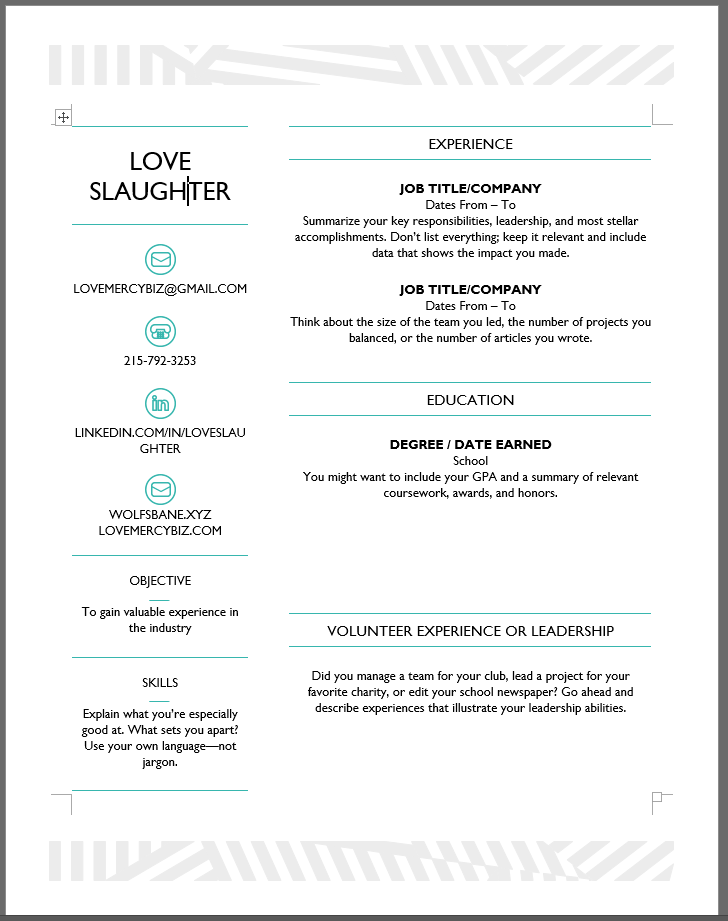
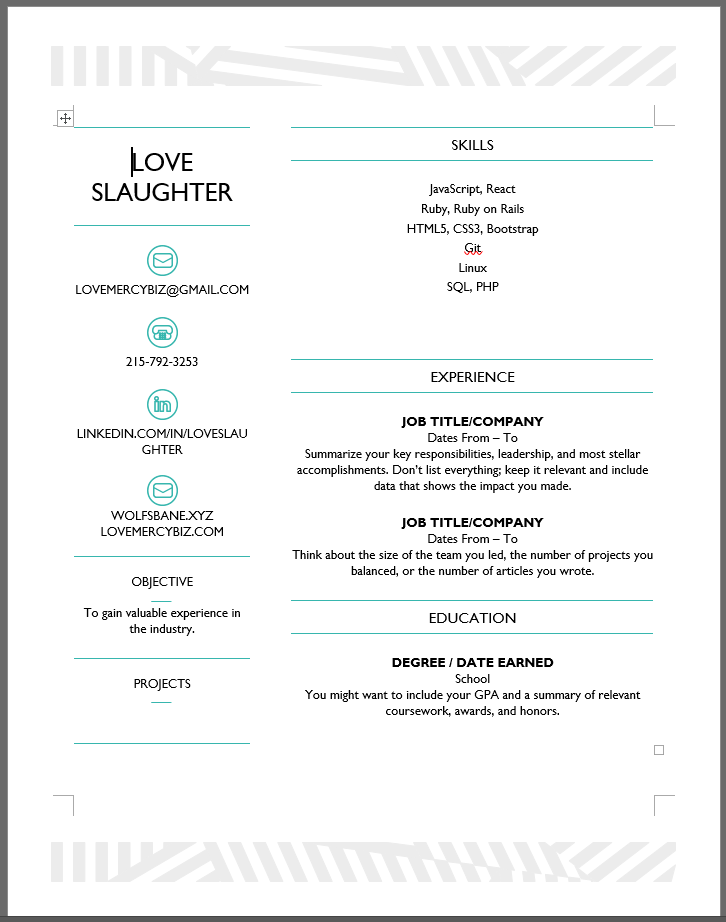
Finished first half of resume

diff --git a/index.html b/index.html
@@ -6,6 +6,7 @@
         <meta name="viewport" content="width=device-width, initial-scale=1,shrink-to-fit=no">
         <!-- <link href="https://fonts.googleapis.com/css?family=Source+Code+Pro:400,500,700" rel="stylesheet"> -->
         <link rel="stylesheet" href="css/bootstrap.min.css">
+        <link rel="stylesheet" href="https://use.fontawesome.com/releases/v5.3.1/css/all.css" integrity="sha384-mzrmE5qonljUremFsqc01SB46JvROS7bZs3IO2EmfFsd15uHvIt+Y8vEf7N7fWAU" crossorigin="anonymous">
         <link rel="stylesheet" href="css/css.css">
         <title>Love Mercy | Resume </title>
     </head>
@@ -20,17 +21,34 @@
       </div>
 
       <div class="row">
-            <div class="col-md-4 col-lg-4 col-xl-4"><h1>Love Slaughter</h1>
+            <div class="col-md-4 col-lg-4 col-xl-4">
+                <h1>Love Slaughter</h1>
                 <div id="social" class="row">
-                <div class="col">email</div>
-                <div class="col">github</div>
-                <div class="col">blog</div>
+                   <div class="container">
+                        <a id="icon" class="far fa-envelope" href="mailto:lovemercybiz@gmail.com"></a>
+                        <!-- <div class="col">email</div> -->
+                    </div>
+                    <div class="container">
+                            <a id="icon" class="fab fa-github" href="https://github.com/lovemercybiz" target="_blank"></a>
+                        <!-- <div class="col">github</div> -->
+                    </div>
+                    <div class="container">
+                            <a id="icon" class="fab fa-blogger-b" href="wolfsbane.xyz" target="_blank"></a>
+                    </div>
             </div>
-        </div>
+            <hr>
+            <h3>Objective</h3>
+            <!-- <span></span> -->
+            <p>Lorem ipsum dolor sit amet consectetur adipisicing elit. Omnis sapiente culpa possimus modi ipsa accusantium aliquam velit nisi.</p><hr>
+            <h3>Projects</h3>
+            <p>Lorem ipsum dolor sit amet consectetur adipisicing elit. Omnis sapiente culpa possimus modi ipsa accusantium aliquam velit nisi.</p><hr>
+        </div><!-- end of 1st col -->
 
+            <div class="col-md-8 col-lg-8 col-xl-8">
+                <h2>Skills</h2>
 
-
-            <div class="col-md-8 col-lg-8 col-xl-8"><h2>Skills</h2></div>            
+                
+            </div><!-- end of 2nd col -->
        </div>
       
        <!-- <div class="row">

diff --git a/css/css.css b/css/css.css
@@ -1,7 +1,10 @@
 body {
     /* background-color: rgba(0, 250, 154, 0.356); */
     /* background-color: black; */
-    /* background: url('../triangle-1805473_960_720.png'); */
+    /* background: url('img/triangle-1805473_960_720.png'); */
+    text-align: center;
+    background-color: rgba(245, 245, 245, 0.521);
+
 }
 
 /* .geo {
@@ -13,26 +16,47 @@ img {
 
 h1 {
     padding-top: .4em;
-    border-top: solid aqua;
+    border-top: solid rgba(0, 255, 157, 0.432);
     padding-bottom: .5em;
-    border-bottom: solid aqua;
-    text-align: center;
+    border-bottom: solid rgba(0, 255, 157, 0.432);
+    /* text-align: center; */
 
 }
 h2 {
     padding-top: .4em;
-    border-top: solid green;
+    border-top: solid rgba(0, 255, 157, 0.432);
     padding-bottom: .5em;
-    border-bottom: solid green;
-    text-align: center;
+    border-bottom: solid rgba(0, 255, 157, 0.432);
+    /* text-align: center; */
 
 }
+/* h3 {
+    border-bottom: 1px solid rgba(0, 255, 157, 0.432);
+    bottom: 5px;
+    border-left: 10px;
+    border-right: 10px;
+} */
 
-.contact{
-    text-align: center;
-}
 
 #social {
-    text-align: center;
     text-transform: uppercase;
 }
+#icon{
+    font-size: 2em;
+    text-decoration: none;
+    color: rgba(0, 255, 157, 0.432);
+    padding-top: .5em;
+    padding-bottom: .5em;
+    margin: .5em;
+}
+
+hr{
+    color: rgba(0, 255, 157, 0.432);
+    width: auto;
+    height: 1em
+    /* size: 2; */
+}
+/* #email {
+    padding: 1em;
+    margin: 1em;
+} */
